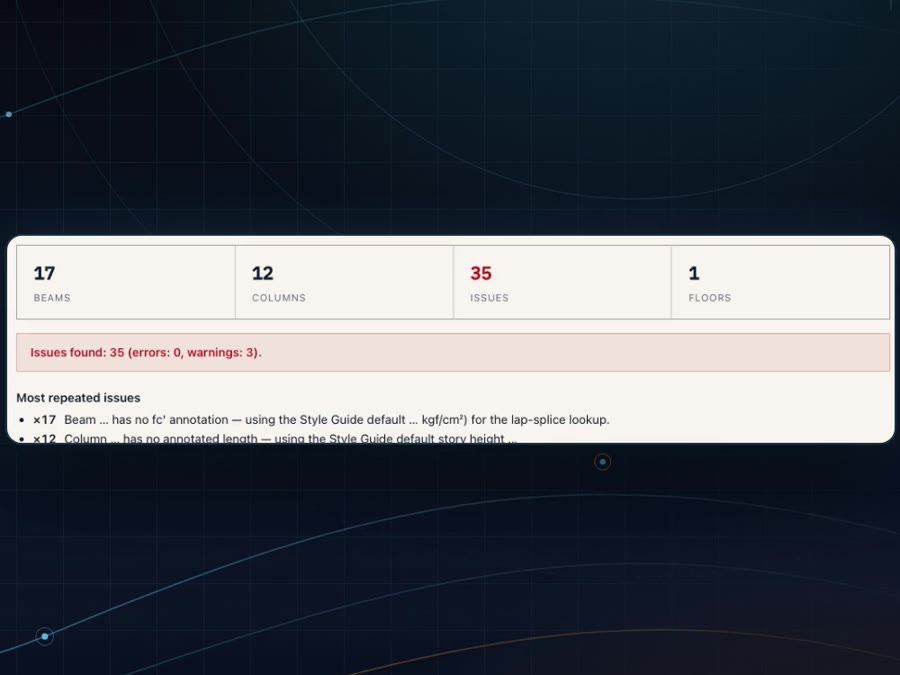
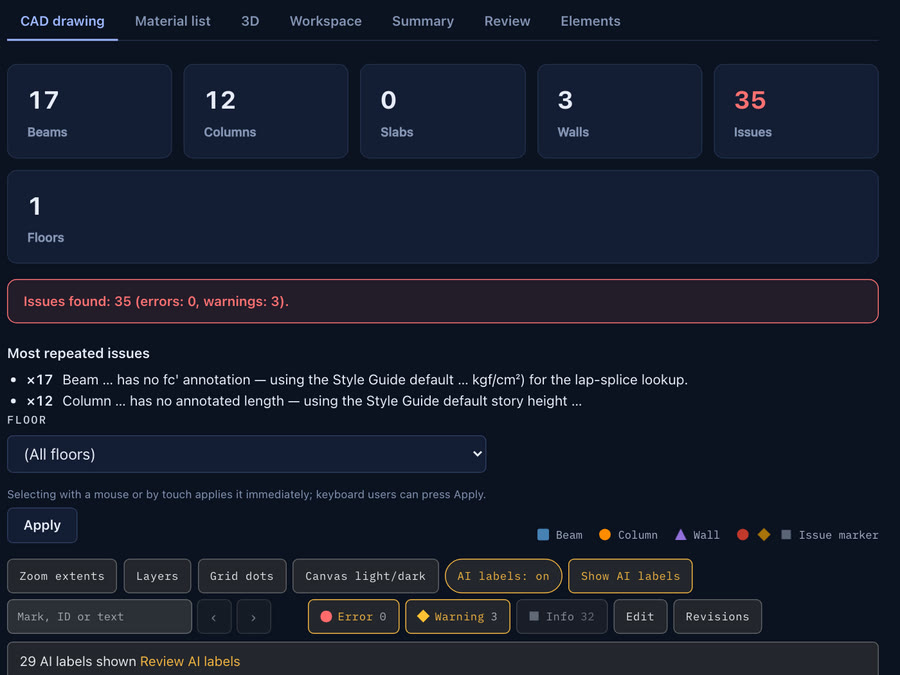
Refresh How-to screenshots and OG card from the current web portal (#38)
Recaptured the three How-to screens (Your drawings while processing,
recognition results, material list) from a local Development build of the
portal at rebar_estimation main (f57cf1f2) with a throwaway account and the
repo's synthetic sample drawings (sim_3F.dxf plus two fillers), so the shots
show the redesigned dark UI. Numbers are unchanged: 17 beams, 12 columns,
35 issues, 1 floor; 49 rows, 845 pieces, 5,109.2 kg. The OG card is re-rendered
with the new material-list shot.

scripts/capture-howto-shots.py reproduces the capture end to end (register,
upload, screenshot, crop with ffmpeg is done by hand at 900x675).

Claude-Session: https://claude.ai/code/session_0172poSuY54k1Zq7FfAvs4r7

diff --git a/scripts/capture-howto-shots.py b/scripts/capture-howto-shots.py
@@ -1,0 +1,151 @@
+import argparse
+import glob
+import os
+import re
+import secrets
+import subprocess
+import sys
+import time
+from pathlib import Path
+
+from playwright.sync_api import sync_playwright
+
+HIDE_CSS = """
+.nav-user { visibility: hidden !important; }
+html { scrollbar-width: none !important; }
+html::-webkit-scrollbar, body::-webkit-scrollbar { display: none !important; width: 0 !important; height: 0 !important; }
+"""
+
+
+def launch(p):
+    found = sorted(glob.glob(os.path.expanduser("~/Library/Caches/ms-playwright/chromium-*/chrome-mac-arm64/*.app/Contents/MacOS/*")))
+    if found:
+        return p.chromium.launch(executable_path=found[-1])
+    return p.chromium.launch(channel="chrome")
+
+
+def confirm_link(outbox, email):
+    for _ in range(60):
+        for mail in sorted(Path(outbox).glob("*"), key=lambda m: m.stat().st_mtime, reverse=True):
+            text = mail.read_text(encoding="utf-8", errors="ignore").replace("&amp;", "&")
+            if email in text:
+                found = re.search(r"https?://[^\s\"'<>]*ConfirmEmail[^\s\"'<>]*", text)
+                if found:
+                    return found.group(0)
+        time.sleep(0.5)
+    sys.exit("no confirmation mail")
+
+
+def job_list(page):
+    return page.evaluate(
+        """() => [...document.querySelectorAll('[data-job-id]')].map(e => ({id: e.dataset.jobId, status: (e.dataset.jobStatus || '').toLowerCase(), text: e.textContent.trim().replace(/\\s+/g, ' ')}))"""
+    )
+
+
+def wait_done(page, base, name, timeout=240):
+    deadline = time.time() + timeout
+    while time.time() < deadline:
+        page.goto(f"{base}/Jobs")
+        mine = [j for j in job_list(page) if name in j["text"]]
+        if mine and mine[0]["status"] in ("done", "failed", "waitingforbars"):
+            return mine[0]
+        time.sleep(2)
+    sys.exit(f"timeout waiting for {name}")
+
+
+def upload(page, base, path, project):
+    page.goto(f"{base}/Jobs")
+    if not page.locator("#upload[open]").count():
+        page.click("#upload summary")
+    page.set_input_files("#UploadedFile", str(path))
+    page.select_option("#ProjectId", label=project)
+    with page.expect_response(lambda r: "/Jobs/Upload" in r.url and r.request.method == "POST", timeout=60000):
+        page.click("[data-upload-submit]")
+    page.wait_for_load_state("networkidle")
+
+
+def to_jpg(png, jpg, size=(900, 675)):
+    subprocess.run(
+        ["ffmpeg", "-y", "-loglevel", "error", "-i", str(png), "-vf", f"scale={size[0]}:{size[1]}:flags=lanczos", "-q:v", "3", str(jpg)],
+        check=True,
+    )
+
+
+def main():
+    ap = argparse.ArgumentParser(description="Register a throwaway local portal account, upload SYNTHETIC drawings, and capture the three How-to screenshots.")
+    ap.add_argument("--base", default="http://127.0.0.1:5188")
+    ap.add_argument("--promo", required=True)
+    ap.add_argument("--outbox", required=True)
+    ap.add_argument("--out", required=True, type=Path)
+    ap.add_argument("--project", default="Sample Tower")
+    ap.add_argument("--fillers", nargs="*", type=Path, default=[], help="drawings uploaded first so the project tree has finished rows")
+    ap.add_argument("hero", type=Path, help="the drawing shown processing and then reviewed")
+    args = ap.parse_args()
+    args.out.mkdir(parents=True, exist_ok=True)
+
+    email = f"howto-{secrets.token_hex(4)}@example.com"
+    password = "Aa1!" + secrets.token_urlsafe(18)
+    base = args.base
+
+    with sync_playwright() as p:
+        browser = launch(p)
+        ctx = browser.new_context(locale="en-US", color_scheme="light", viewport={"width": 1200, "height": 900}, device_scale_factor=1.5)
+        ctx.add_init_script(
+            "document.addEventListener('DOMContentLoaded', () => { const s = document.createElement('style'); s.textContent = "
+            + repr(HIDE_CSS)
+            + "; document.head.appendChild(s); });"
+        )
+        page = ctx.new_page()
+        page.goto(f"{base}/culture/set?culture=en&returnUrl=/")
+        page.goto(f"{base}/Account/Register")
+        page.fill("#Input_Email", email)
+        page.fill("#Input_Password", password)
+        page.fill("#Input_ConfirmPassword", password)
+        page.fill("#Input_PromoCode", args.promo)
+        page.click("form:has(#Input_PromoCode) button[type=submit]")
+        page.wait_for_load_state("networkidle")
+        page.goto(confirm_link(args.outbox, email))
+        page.wait_for_load_state("networkidle")
+        if page.locator("#Input_Password").count():
+            page.fill("#Input_Password", password)
+            page.click("form:has(#Input_Code) button[type=submit]")
+            page.wait_for_load_state("networkidle")
+        if "/Account/Login" in page.url or page.locator("#Input_Password").count():
+            page.goto(f"{base}/Account/Login")
+            page.fill("#Input_Email", email)
+            page.fill("#Input_Password", password)
+            page.click("form:has(#Input_Password) button[type=submit]")
+            page.wait_for_load_state("networkidle")
+        page.goto(f"{base}/Jobs")
+        if "/Account/Login" in page.url:
+            sys.exit("sign-in failed")
+
+        page.click(".tree-new summary")
+        page.fill("#side-project-name", args.project)
+        page.select_option("#side-project-style-guide", "sample")
+        page.click("form.project-create button[type=submit]")
+        page.wait_for_load_state("networkidle")
+
+        for filler in args.fillers:
+            upload(page, base, filler, args.project)
+            wait_done(page, base, filler.name)
+
+        upload(page, base, args.hero, args.project)
+        page.wait_for_load_state("load")
+        page.wait_for_timeout(800)
+        page.screenshot(path=str(args.out / "1-upload.png"))
+
+        job = wait_done(page, base, args.hero.name)
+        page.goto(f"{base}/Jobs/View/{job['id']}", wait_until="networkidle")
+        page.wait_for_timeout(2500)
+        page.screenshot(path=str(args.out / "2-review-full.png"), full_page=True)
+
+        page.goto(f"{base}/Jobs/Materials/{job['id']}", wait_until="networkidle")
+        page.wait_for_timeout(1500)
+        page.screenshot(path=str(args.out / "3-materials-full.png"), full_page=True)
+        browser.close()
+    print("job", job)
+
+
+if __name__ == "__main__":
+    sys.exit(main())
